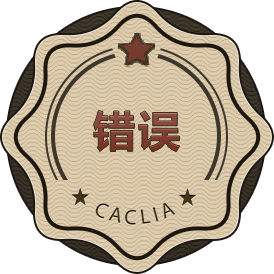
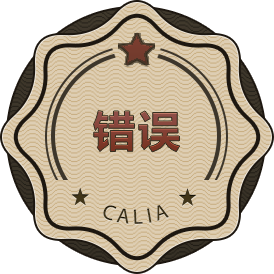
根据接口返回判断是calia还是爱慕

Changed region(s): [[0.3504, 0.7299, 0.6423, 0.8467]]

diff --git a/src/pages/index.js b/src/pages/index.js
@@ -33,38 +33,54 @@ class Index extends Component {
       let code = caliaCode || aimuCode
       let a = Variable.getKaishaString(url)
       let c = Variable.getCaliaString(url)
+      console.log('a',a)
+      console.log('c',c)
       //如果有a或者c参数
       if (a || c) {
         console.log(111, code)
         this.props.getBarCode(code)
         //空值直接返回错误页面
         if (code.length >= 20 && code.length <= 50) {
-          this.sendCode(code)
+          this.sendCode(code,c)
         } else {
           this.props.getStatus(false)
         }
         //更换calia或者艾慕凯莎的界面
-        if (c) {
-          this.props.getBrandType(true)
-          this.setState({ brand: 'CALIA' })
-        } else {
-          this.props.getBrandType(false)
-          this.setState({ brand: '艾慕凯莎' })
-        }
+        // if (c) {
+        //   this.props.getBrandType(true)
+        //   this.setState({ brand: 'CALIA' })
+        // } else {
+        //   this.props.getBrandType(false)
+        //   this.setState({ brand: '艾慕凯莎' })
+        // }
       } else {
         this.setState({ status: true })
       }
     }
     //获取数据并存在store
-    this.sendCode = (code) => {
+    this.sendCode = (code,c) => {
       Variable.sendCode(code)
         .then((res) => {
-          console.log('发送请求')
           if (res.data.status == 1) {
+            if (res.data.brand === 'Calia Sofart') {
+              this.props.getBrandType(true)
+              this.setState({ brand: 'CALIA' })
+            } else {
+              this.props.getBrandType(false)
+              this.setState({ brand: '艾慕凯莎' })
+            }
             this.props.getStatus(true)
             this.props.getCodeData(res.data)
           } else if (res.data.status == 0) {
             this.props.getStatus(false)
+            if (c) {
+              this.props.getBrandType(true)
+              this.setState({ brand: 'CALIA' })
+            } else {
+              this.props.getBrandType(false)
+              this.setState({ brand: '艾慕凯莎' })
+            }
+
           }
         })
         .catch((error) => {
